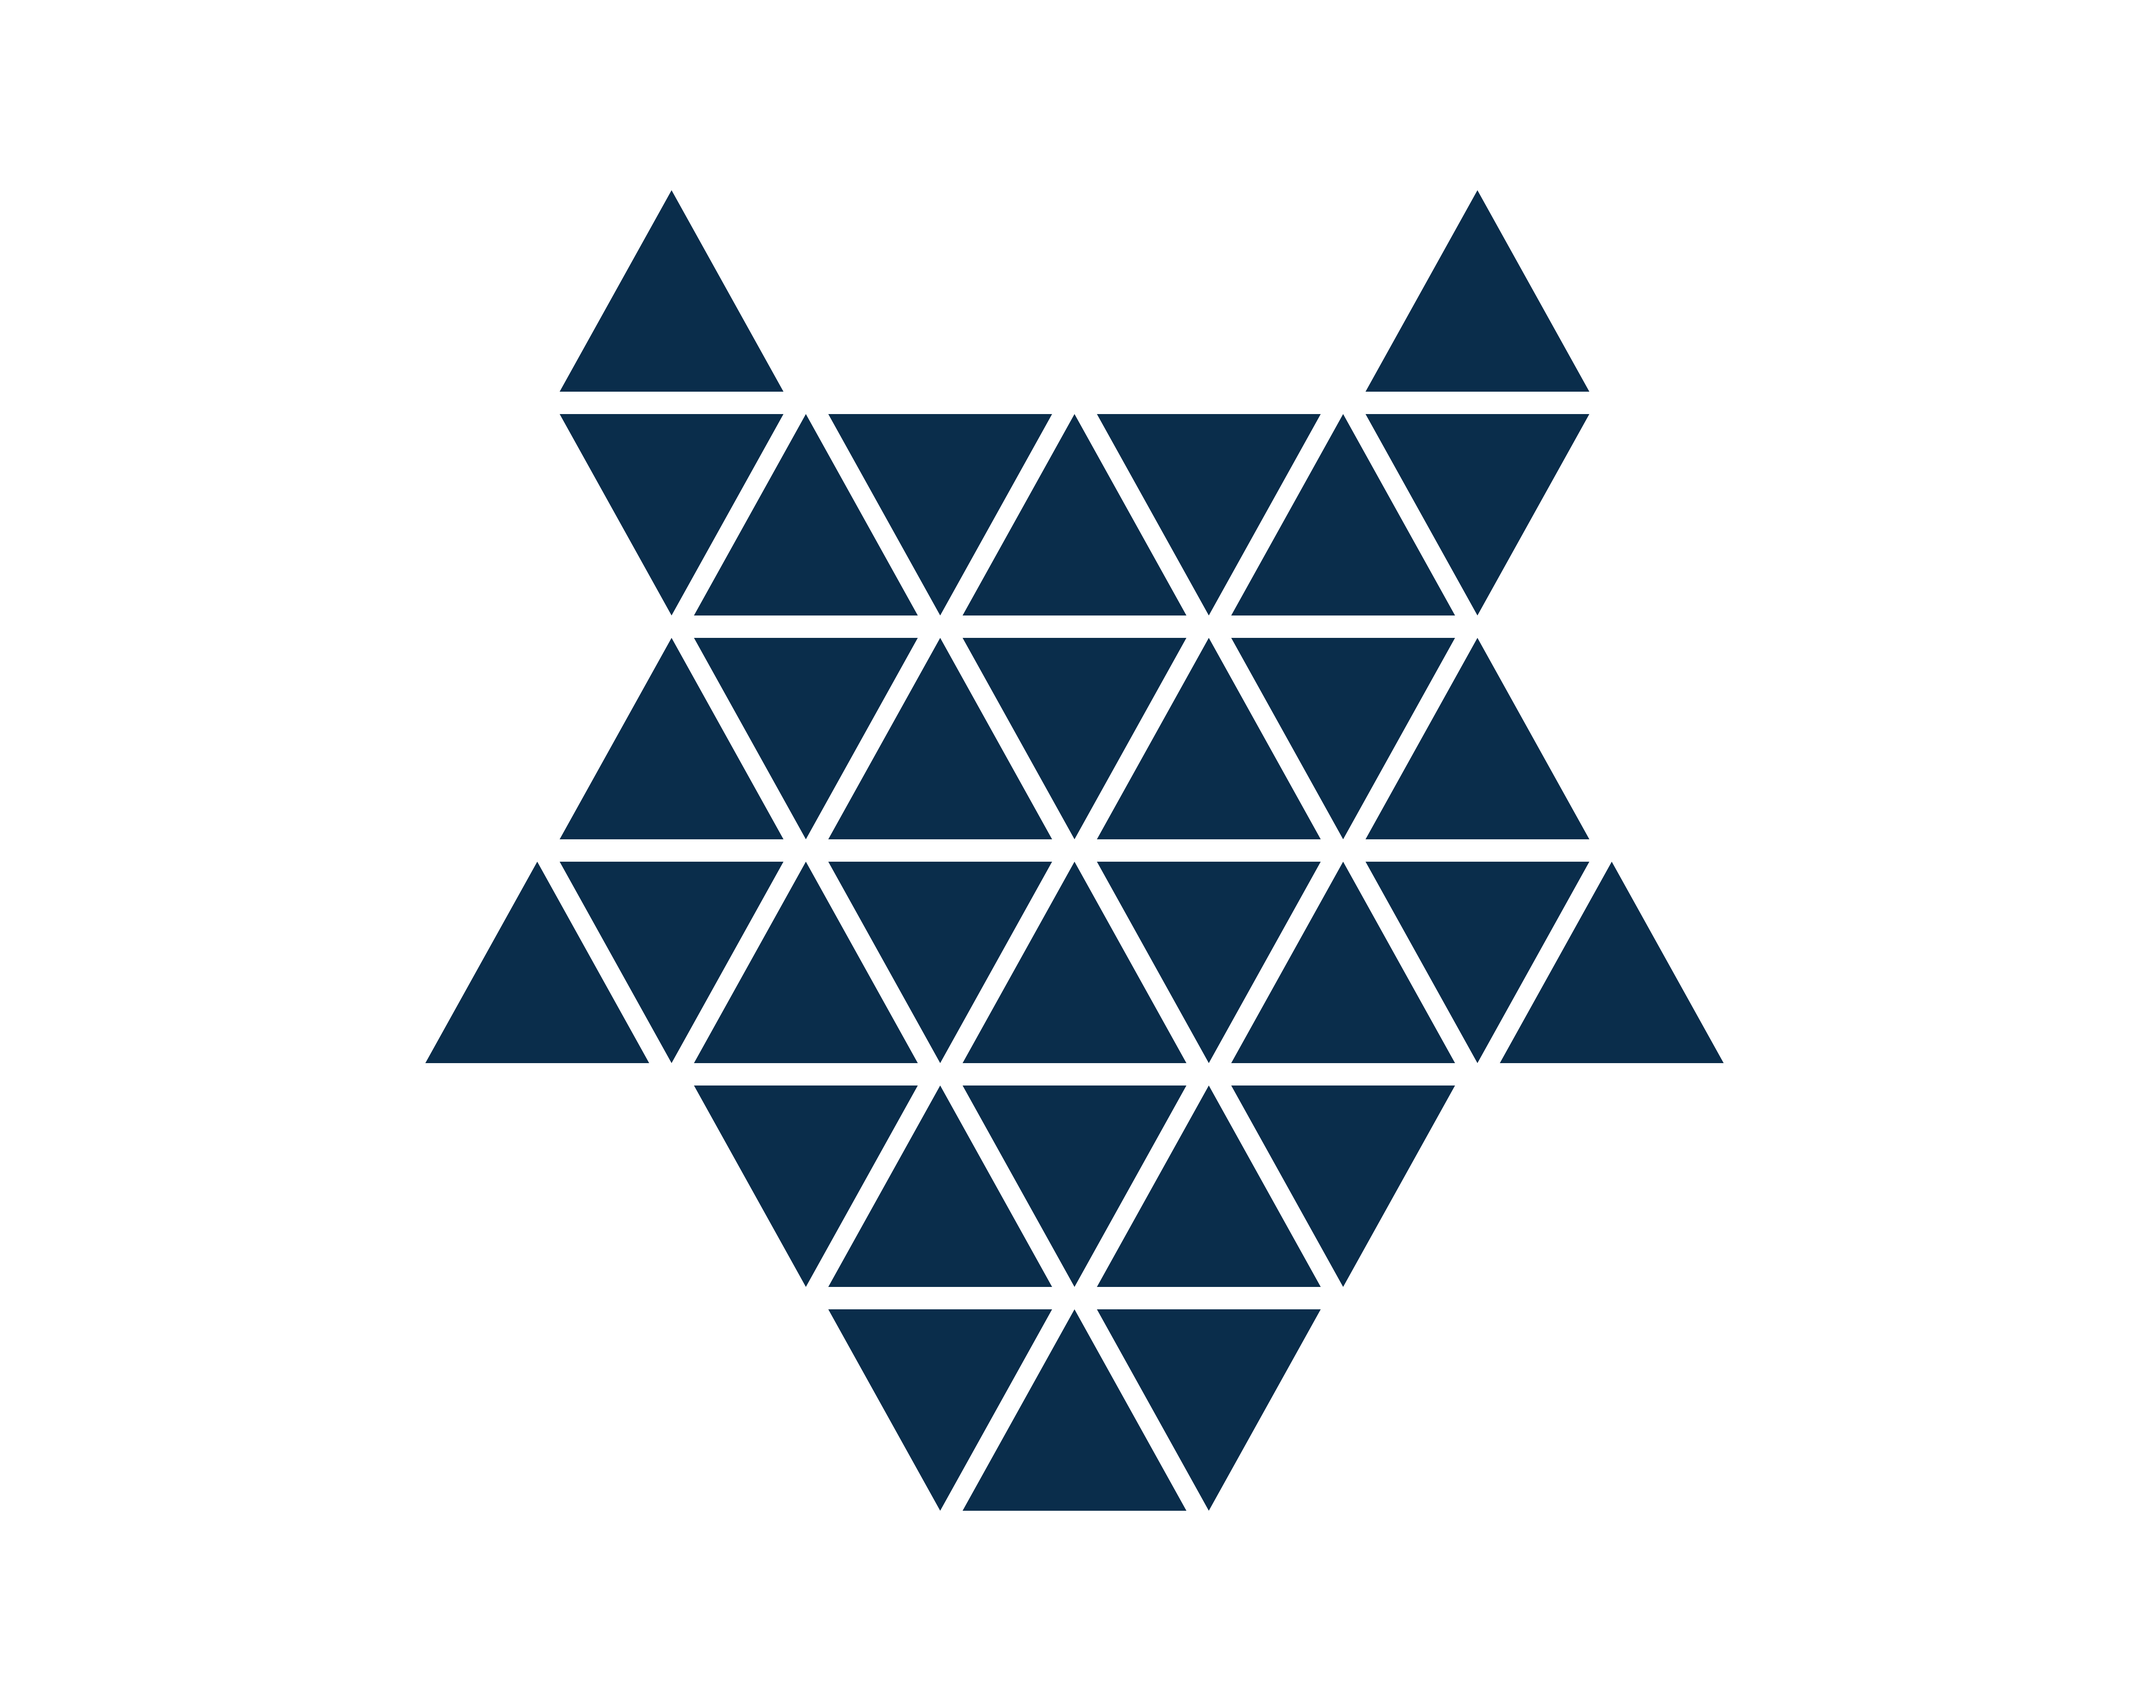
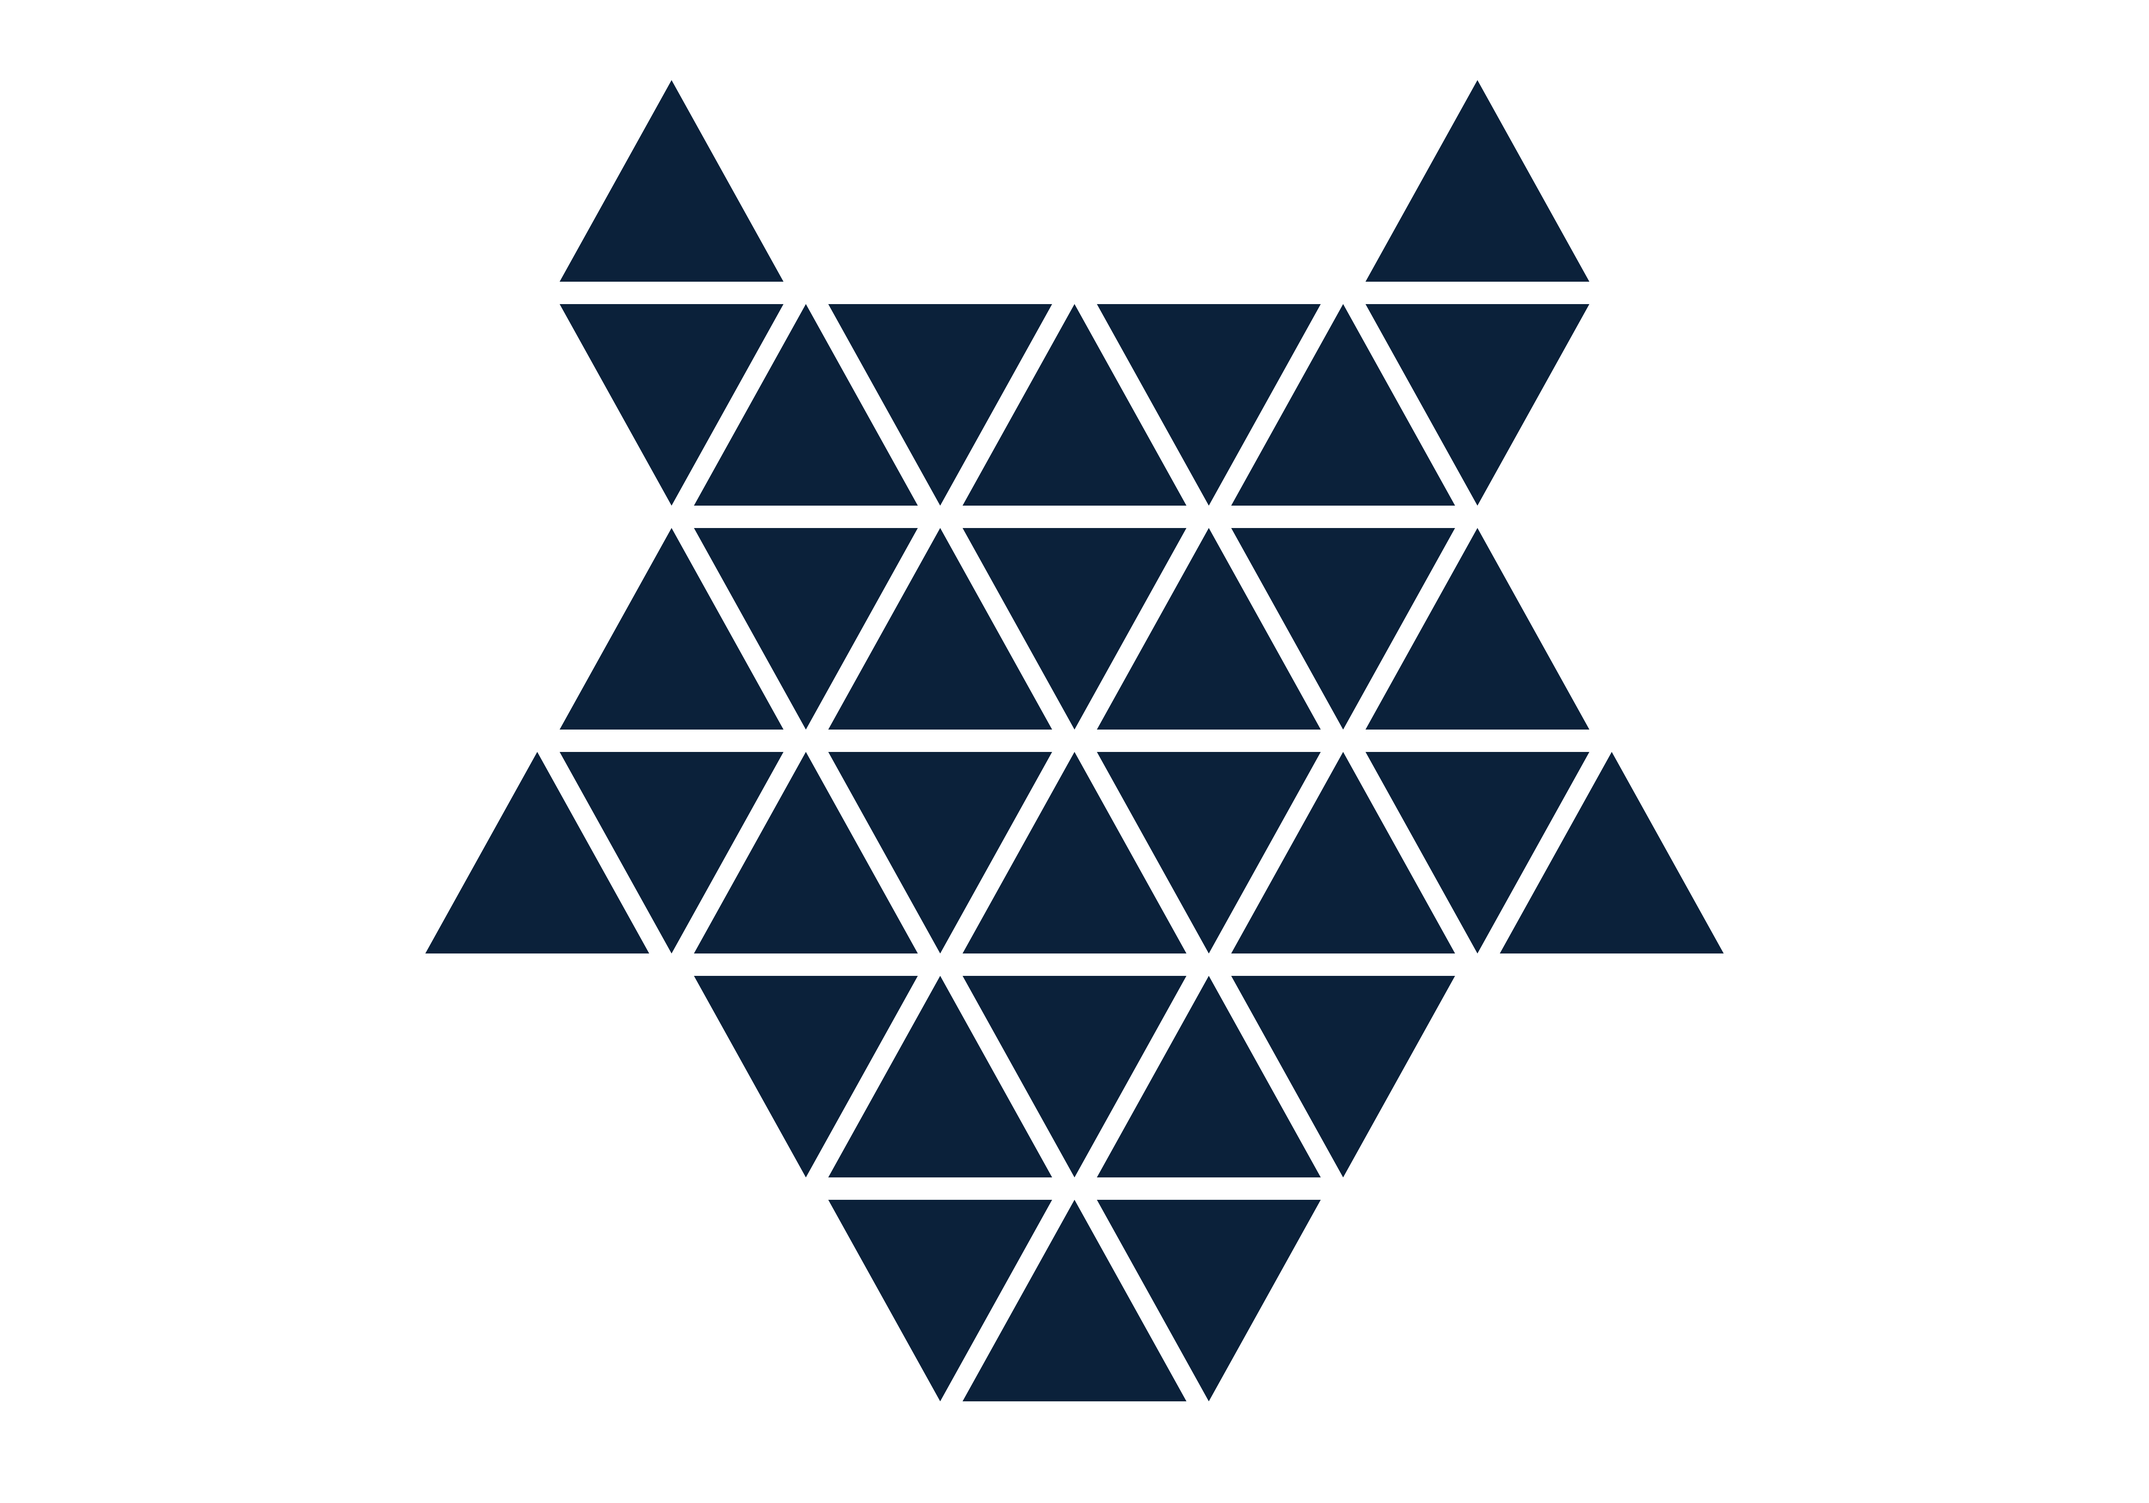
some more stuff

Changed region(s): [[0.25, 0.062, 0.75, 0.5268], [0.1875, 0.5888, 0.8125, 0.9297]]

diff --git a/static/css/all.css b/static/css/all.css
@@ -182,11 +182,17 @@ a:hover {
 }
 
 .img-work {
-  width: 100%;
-  height: auto;
-/*  border: 1px solid red;*/ 
+  width: auto;
+  max-width: 100%;
+  border: 2.5px solid var(--fun-color); 
+  border-radius: 8px;
 }
 
+.work-content ul li img{
+  width: 220px;
+  height: 220px;
+  object-fit: scale-down;
+}
 
 
 
@@ -206,11 +212,12 @@ a:hover {
 /*project: polygonal animals*/
 #img-trenner {
   width: 50%;
-
 }
 
 #polyanimal-normal {
   width: 75%;
+  margin-top: -2em;
+  margin-bottom: 0;
 }
 
 

diff --git a/content/work/icecream.md b/content/work/icecream.md
@@ -30,7 +30,7 @@ Lorem ipsum dolor sit amet, consectetur adipisicing elit. Explicabo eum similiqu
 
 Lorem ipsum dolor sit amet, consectetur adipisicing elit. Repellendus consectetur id iste, nemo ea molestias impedit voluptatum sed consequuntur quaerat, et ipsum. Consectetur obcaecati amet expedita in commodi, hic saepe.
 
-<div class="ice-cream-schmal">
+<div class="ice-cream-breit">
 	<img src="/img/IceForms.png" alt="">
 </div>
 
